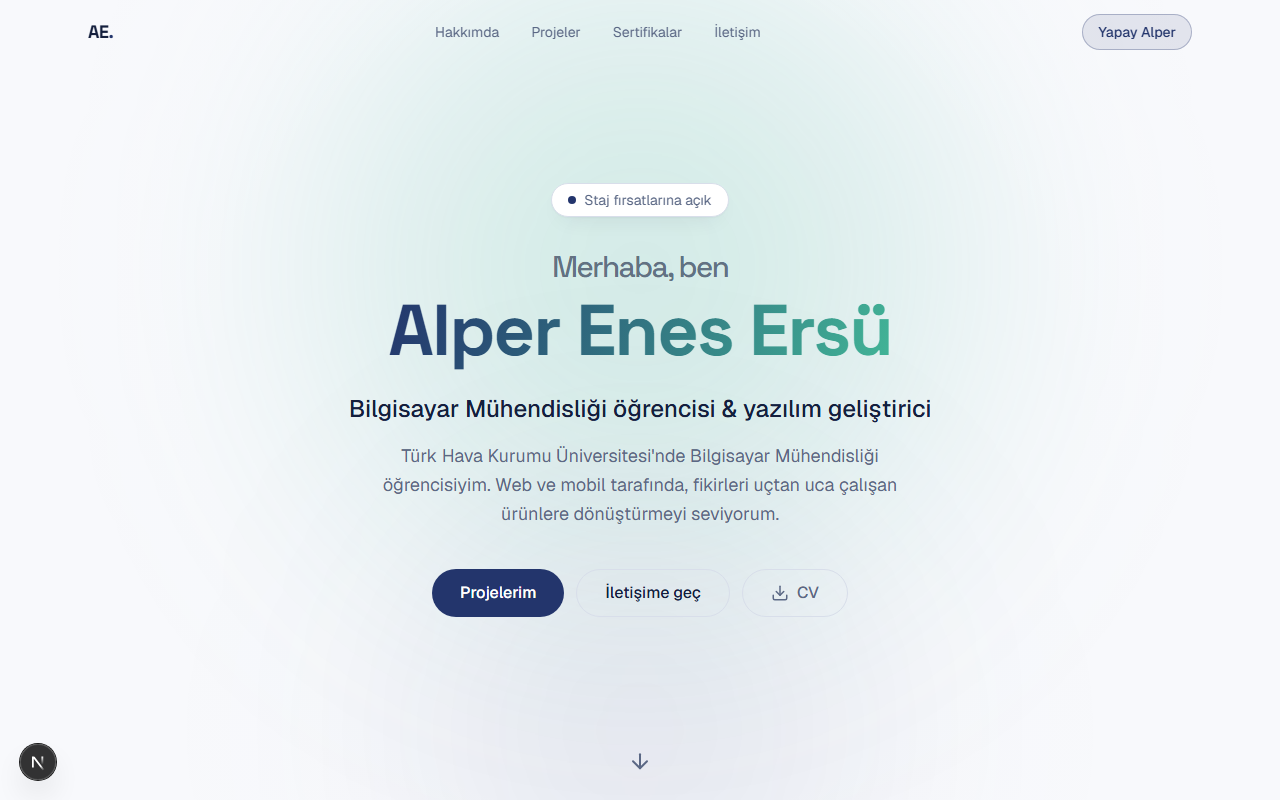
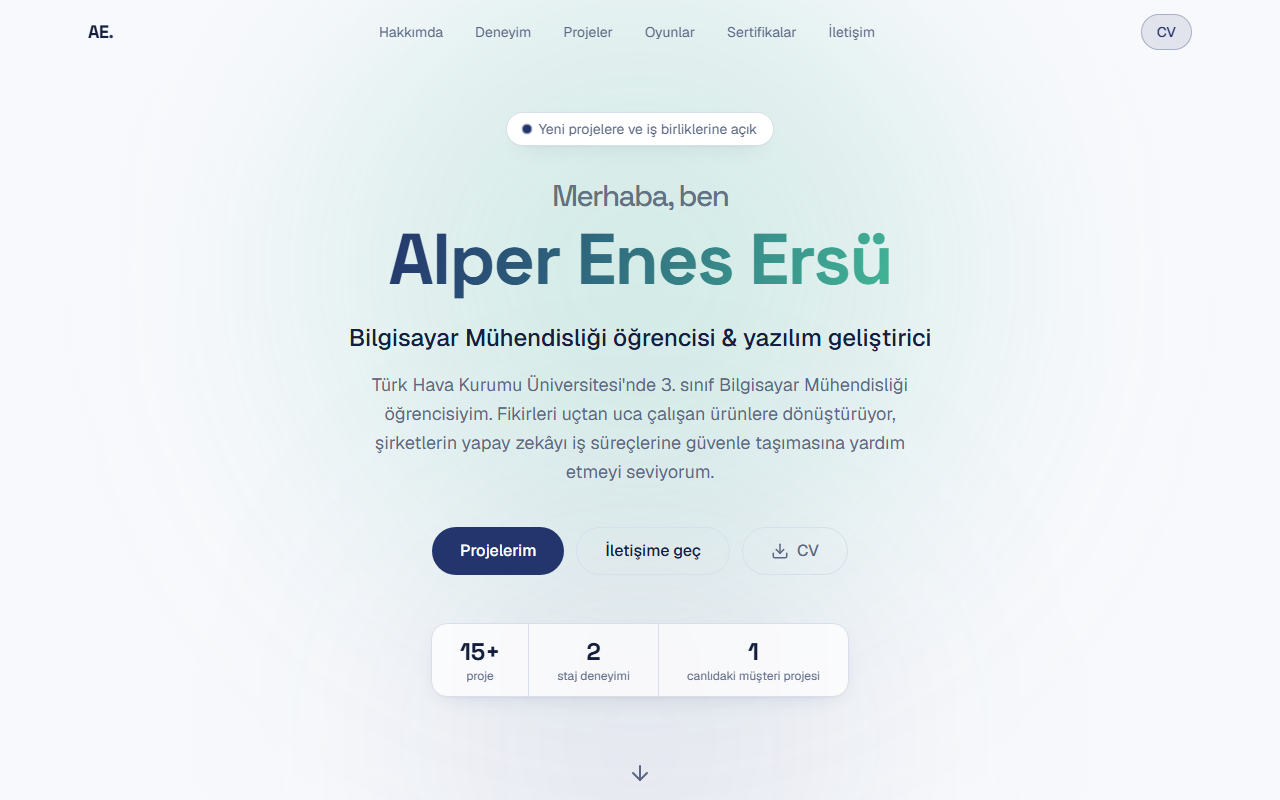
feat(projeler): Undustit eklendi, sıra emeğe göre, görseller güncellendi
- Undustit (undustit.com, canlı) öne çıkan projelere eklendi.
- Sıra: önce canlıdakiler, sonra PR sayısı çoktan aza; PR'ı olmayanlar commit
  sayısına göre. Öne çıkanlar: canlıda olan ya da 30+ PR'lı projeler
  (SezAI öne çıktı).
- site.png yeni menüyle (Oyunlar dahil) yeniden çekildi.

diff --git a/src/content/projects.ts b/src/content/projects.ts
@@ -44,7 +44,32 @@ export type Project = {
 /** Bu sitede barınan oyunun adresi (public/oyunlar/, Fuse-Fall deposundaki `npm run portfolio` ile gelir). */
 export const FUSE_AND_FALL_URL = "/oyunlar/fuse-and-fall/index.html";
 
+/**
+ * Sıra: önce canlıdakiler, sonra PR sayısı çoktan aza (PR'ı olmayanlar commit sayısına göre).
+ * Daha çok emek verilen proje üstte. Öne çıkan (büyük kart): canlıda olan ya da 30+ PR'lı projeler.
+ * Sayılar Kasım 2026: Undustit 40, Fuse & Fall 39, GMS Toptan 16 · Flow 311, ScrapeMind 149,
+ * SezAI 84, Aetheria 40, GitShield 33, bu site 23, SezAI Mobile 9, NeKiBuKi 4, Sweeply 3,
+ * Posinowa 1, AISigner 1 PR · Hastane 39, LogSentry 35, KitapYurdu 10, Aloah 5 commit.
+ */
 export const projects: Project[] = [
+  {
+    slug: "undustit",
+    title: "Undustit",
+    tagline: "Fikirden rafa: topluluğun birlikte ürün geliştirdiği atölye",
+    description: [
+      "Aklındaki ürünü tek cümleyle yazıyorsun; insanlar “alırdım” deyip kaça alacaklarını yazıyor. En çok istenen beş fikir her perşembe canlı yayında konuşuluyor, ön satış eşiği dolunca ürün üretiliyor ve satıştan katkı veren herkes pay alıyor. Firmalar da satamadıkları stoğu “vaka” olarak açıyor; topluluk o stoğa yeni bir iş buluyor. İlk vaka: bir milyon M10 cıvata.",
+      "Derleme adımı olmayan, iki dilli (TR/EN) statik bir site; veri Supabase'de, her tabloda satır düzeyinde güvenlik (RLS) var. Fikir arenası, vaka sayfaları, kendi vakasını izleyen firma paneli ve içerik denetimli yönetim paneli içeriyor. Paylaşılan her fikir Netlify Edge Function ile kendi önizlemesini alıyor; Playwright, SQL ve Edge testleri her PR'da CI'da koşuyor.",
+    ],
+    tech: ["HTML/CSS/JS", "Supabase", "PostgreSQL + RLS", "Netlify Edge Functions", "Playwright"],
+    image: "/projects/undustit.png",
+    repo: "AlperEnesErsu/Undustit",
+    github: "https://github.com/AlperEnesErsu/Undustit",
+    demo: "https://undustit.com",
+    status: "live",
+    featured: true,
+    platforms: ["Web"],
+    categories: ["Web"],
+  },
   {
     slug: "fuse-and-fall",
     title: "Fuse & Fall",
@@ -80,40 +105,6 @@ export const projects: Project[] = [
     categories: ["Web"],
   },
   {
-    slug: "gitshield",
-    title: "GitShield",
-    tagline: "AI destekli PR güvenlik denetçisi ve otomatik düzeltme motoru",
-    description: [
-      "Klasik statik analiz araçları geliştiricinin önüne yüzlerce uyarı yığar, çoğu da kapatılıp geçilir. GitShield yalnızca PR'daki değişen satırları tarar: regex + Shannon entropisiyle sızdırılmış anahtarları, OWASP kurallarıyla SQL injection, eval ve komut enjeksiyonu gibi açıkları yakalar ve LLM ile uygulanabilir bir düzeltme diff'i üretir.",
-      "Terminalde, GitHub Action olarak ya da web panelinde çalışıyor. Panel, erişimin olan tüm repolardaki PR'ları AI ile inceliyor, review'u ikinci bir LLM geçişiyle doğruluyor ve yalnızca senin onayınla PR'a gönderiyor. Bekleyenler kutusu, açıklamalı risk skoru, klavyeyle hızlı onay modu ve SARIF çıktısı var.",
-    ],
-    tech: ["Python", "Typer", "Pydantic", "FastAPI", "React", "LLM", "GitHub API", "SARIF"],
-    image: "/projects/gitshield.png",
-    repo: "AlperEnesErsu/GitShield",
-    github: "https://github.com/AlperEnesErsu/GitShield",
-    status: "open-source",
-    featured: true,
-    platforms: ["CLI", "Web"],
-    categories: ["Yapay Zekâ", "Güvenlik"],
-  },
-  {
-    slug: "aetheria-ai",
-    title: "Aetheria.ai",
-    tagline: "Proje fikri üreten ve fikrini ölçerek değerlendiren AI aracı",
-    description: [
-      "Seçtiğin alanda sıfırdan yazılım proje fikri üretiyor; beğendiğin fikrin Clean Architecture sistem mimarisini ve güvenlik tasarımını çıkarıp Markdown rapor olarak veriyor. İlk sürüm hep aynı beş fikrin etrafında dönüyordu; üretimi iki aşamaya bölüp her isteğe farklı bir kısıt kombinasyonu (625 bileşim) vererek 24 üretimde 24 farklı başlık elde ettim.",
-      "Yeni “Fikrimi Değerlendir” modu, senin fikrini değiştirmeden dört kriterle inceliyor. Kanıt ve uygulanabilirlik OpenAlex, Wikidata ve GitHub'a giden gerçek sorgularla ölçülüyor; pazar ve zamanlama ise açıkça “model görüşü” olarak etiketleniyor — yanıltıcı bir birleşik puan yok. Sunucu yok, anahtarın tarayıcından çıkmıyor; 289 test bu kuralları zorluyor.",
-    ],
-    tech: ["JavaScript", "Gemini API", "Claude API", "OpenAlex", "Wikidata", "node:test"],
-    image: "/projects/aetheria.png",
-    repo: "AlperEnesErsu/Aetheria.ai",
-    github: "https://github.com/AlperEnesErsu/Aetheria.ai",
-    status: "open-source",
-    featured: true,
-    platforms: ["Web"],
-    categories: ["Yapay Zekâ", "Web"],
-  },
-  {
     slug: "flow",
     title: "Flow",
     tagline: "Hedef, alışkanlık ve odak takibini birleştiren verimlilik uygulaması",
@@ -146,6 +137,102 @@ export const projects: Project[] = [
     categories: ["Yapay Zekâ", "Web"],
   },
   {
+    slug: "sezai",
+    title: "SezAI",
+    tagline: "Yapay zekâ destekli bitki hastalığı teşhisi",
+    description: [
+      "Çiftçinin tarlada uzmana erişimi yok; hastalığı geç fark etmek mahsulü götürüyor. SezAI bu problemi tek fotoğrafa indiriyor: yaprağın fotoğrafını çek, ~10 saniyede teşhisi al.",
+      "Teşhisle birlikte doğru ilacı öneriyor ve en yakın bayiyi gösteriyor. Son sürümde kullanılmayan bileşen kütüphanesini ve 43 yetim bağımlılığı temizledim, animasyonlar için regresyon testleri ekledim.",
+    ],
+    tech: ["React", "TypeScript", "Tailwind v4", "Supabase", "React Query"],
+    image: "/projects/sezai.png",
+    status: "demo-soon",
+    featured: true,
+    platforms: ["Web", "Mobil"],
+    categories: ["Yapay Zekâ", "Web"],
+  },
+  {
+    slug: "aetheria-ai",
+    title: "Aetheria.ai",
+    tagline: "Proje fikri üreten ve fikrini ölçerek değerlendiren AI aracı",
+    description: [
+      "Seçtiğin alanda sıfırdan yazılım proje fikri üretiyor; beğendiğin fikrin Clean Architecture sistem mimarisini ve güvenlik tasarımını çıkarıp Markdown rapor olarak veriyor. İlk sürüm hep aynı beş fikrin etrafında dönüyordu; üretimi iki aşamaya bölüp her isteğe farklı bir kısıt kombinasyonu (625 bileşim) vererek 24 üretimde 24 farklı başlık elde ettim.",
+      "Yeni “Fikrimi Değerlendir” modu, senin fikrini değiştirmeden dört kriterle inceliyor. Kanıt ve uygulanabilirlik OpenAlex, Wikidata ve GitHub'a giden gerçek sorgularla ölçülüyor; pazar ve zamanlama ise açıkça “model görüşü” olarak etiketleniyor — yanıltıcı bir birleşik puan yok. Sunucu yok, anahtarın tarayıcından çıkmıyor; 289 test bu kuralları zorluyor.",
+    ],
+    tech: ["JavaScript", "Gemini API", "Claude API", "OpenAlex", "Wikidata", "node:test"],
+    image: "/projects/aetheria.png",
+    repo: "AlperEnesErsu/Aetheria.ai",
+    github: "https://github.com/AlperEnesErsu/Aetheria.ai",
+    status: "open-source",
+    featured: true,
+    platforms: ["Web"],
+    categories: ["Yapay Zekâ", "Web"],
+  },
+  {
+    slug: "gitshield",
+    title: "GitShield",
+    tagline: "AI destekli PR güvenlik denetçisi ve otomatik düzeltme motoru",
+    description: [
+      "Klasik statik analiz araçları geliştiricinin önüne yüzlerce uyarı yığar, çoğu da kapatılıp geçilir. GitShield yalnızca PR'daki değişen satırları tarar: regex + Shannon entropisiyle sızdırılmış anahtarları, OWASP kurallarıyla SQL injection, eval ve komut enjeksiyonu gibi açıkları yakalar ve LLM ile uygulanabilir bir düzeltme diff'i üretir.",
+      "Terminalde, GitHub Action olarak ya da web panelinde çalışıyor. Panel, erişimin olan tüm repolardaki PR'ları AI ile inceliyor, review'u ikinci bir LLM geçişiyle doğruluyor ve yalnızca senin onayınla PR'a gönderiyor. Bekleyenler kutusu, açıklamalı risk skoru, klavyeyle hızlı onay modu ve SARIF çıktısı var.",
+    ],
+    tech: ["Python", "Typer", "Pydantic", "FastAPI", "React", "LLM", "GitHub API", "SARIF"],
+    image: "/projects/gitshield.png",
+    repo: "AlperEnesErsu/GitShield",
+    github: "https://github.com/AlperEnesErsu/GitShield",
+    status: "open-source",
+    featured: true,
+    platforms: ["CLI", "Web"],
+    categories: ["Yapay Zekâ", "Güvenlik"],
+  },
+  {
+    slug: "alperenesersu-net",
+    title: "AlperEnesErsu.net",
+    tagline: "Bu site — animasyonlu kişisel portföy",
+    description: [
+      "Şu an gezdiğin site. Her bölümü ayrı PR'larla geliştirdim: interaktif proje simülatörleri, canlı GitHub istatistikleri, sertifika galerisi ve sıkı güvenlik başlıkları (CSP, HSTS).",
+    ],
+    tech: ["Next.js 16", "TypeScript", "Tailwind v4", "Motion"],
+    image: "/projects/site.png",
+    repo: "AlperEnesErsu/AlperEnesErsu.net",
+    github: "https://github.com/AlperEnesErsu/AlperEnesErsu.net",
+    status: "open-source",
+    featured: false,
+    platforms: ["Web"],
+    categories: ["Web"],
+  },
+  {
+    slug: "sezai-mobile",
+    title: "SezAI Mobile",
+    tagline: "SezAI'nin React Native mobil uygulaması",
+    description: [
+      "SezAI'yi tarlada en çok kullanılacağı yere, telefona taşıyorum: fotoğraf çek, teşhisi ve ilaç önerisini cebinden al. Expo ile geliştiriliyor; yeni özellikler eklendikçe burası da güncellenecek.",
+    ],
+    tech: ["React Native", "Expo", "TypeScript"],
+    image: "/projects/sezai-mobile.png",
+    status: "in-dev",
+    featured: false,
+    platforms: ["Mobil"],
+    categories: ["Mobil", "Yapay Zekâ"],
+  },
+  {
+    slug: "nekibuki",
+    title: "NeKiBuKi",
+    tagline: "Zor bulunan ürünler için masaüstü fiyat & stok takibi",
+    description: [
+      "Piyasada zor bulunan ürünleri CarrefourSA, Akakçe ve Trendyol gibi sitelerde periyodik tarayan bir masaüstü uygulaması. Hedef fiyatın altına düşen ya da stoğa geri gelen ürünler için bildirim gönderiyor; Tkinter arayüzüyle ürün yönetimi ve fiyat geçmişi grafiği sunuyor.",
+      "Birçok sitenin bot koruması 403 döndürünce hibrit bir yapı kurdum: erişilebilen kaynaklardan doğrudan veri çekiliyor, erişilemeyenlerde kullanıcı doğru arama sayfasına yönlendiriliyor.",
+    ],
+    tech: ["Python", "Tkinter", "Web Scraping", "Veri Analizi"],
+    image: "/projects/nekibuki.png",
+    repo: "AlperEnesErsu/NeKiBuKi",
+    github: "https://github.com/AlperEnesErsu/NeKiBuKi",
+    status: "open-source",
+    featured: false,
+    platforms: ["Masaüstü"],
+    categories: ["Masaüstü"],
+  },
+  {
     slug: "sweeply",
     title: "Sweeply",
     tagline: "Tek tıkla, güvenli ve şeffaf Windows temizliği",
@@ -161,23 +248,6 @@ export const projects: Project[] = [
     featured: false,
     platforms: ["Windows"],
     categories: ["Masaüstü"],
-  },
-  {
-    slug: "logsentry",
-    title: "LogSentry",
-    tagline: "Ruby ile sıfırdan yazılmış mini SIEM",
-    description: [
-      "Splunk veya Wazuh gibi sistemlerin kaputunun altındaki mantığı elle kurarak öğrenmek için yazdım. Web sunucusu loglarını canlı izliyor; brute force, credential stuffing, flood, dizin taraması, SQLi, XSS ve tarama araçlarını kayan zaman pencereleriyle tespit edip kanıtıyla uyarı üretiyor.",
-      "Uyarılar ekrana, JSONL'e ve Telegram'a gidiyor; arşiv hash zinciriyle kurcalamaya karşı korunuyor. SSE destekli web paneli, MITRE ATT&CK eşlemesi, Syslog/CEF yönlendirme ve 236 test var.",
-    ],
-    tech: ["Ruby", "Sinatra", "SQLite", "SSE", "MITRE ATT&CK"],
-    image: "/projects/logsentry.png",
-    repo: "AlperEnesErsu/LogSentry",
-    github: "https://github.com/AlperEnesErsu/LogSentry",
-    status: "open-source",
-    featured: false,
-    platforms: ["Sunucu", "Web"],
-    categories: ["Güvenlik"],
   },
   {
     slug: "posinowa-redesign",
@@ -212,48 +282,35 @@ export const projects: Project[] = [
     categories: ["Web"],
   },
   {
-    slug: "sezai",
-    title: "SezAI",
-    tagline: "Yapay zekâ destekli bitki hastalığı teşhisi",
+    slug: "hospital-system",
+    title: "Hospital Management System",
+    tagline: "Hasta kayıt, randevu ve idari süreç yönetimi (üniversite projesi)",
     description: [
-      "Çiftçinin tarlada uzmana erişimi yok; hastalığı geç fark etmek mahsulü götürüyor. SezAI bu problemi tek fotoğrafa indiriyor: yaprağın fotoğrafını çek, ~10 saniyede teşhisi al.",
-      "Teşhisle birlikte doğru ilacı öneriyor ve en yakın bayiyi gösteriyor. Son sürümde kullanılmayan bileşen kütüphanesini ve 43 yetim bağımlılığı temizledim, animasyonlar için regresyon testleri ekledim.",
+      "Hasta bakımı, tıbbi kayıtlar, randevular ve idari iş akışlarını ele alan kapsamlı bir hastane yönetim sistemi tasarımı ve uygulaması. Nesne yönelimli programlama ilkeleri ve veritabanı tasarımı iyi uygulamalarıyla, üniversite dersi kapsamında geliştirdim.",
     ],
-    tech: ["React", "TypeScript", "Tailwind v4", "Supabase", "React Query"],
-    image: "/projects/sezai.png",
-    status: "demo-soon",
+    tech: ["Java", "OOP", "HTML", "UI Tasarımı"],
+    image: "/projects/hospital-system.png",
+    github: "https://github.com/AlperEnesErsu/Ceng201_HW_Assignment",
+    status: "open-source",
     featured: false,
-    platforms: ["Web", "Mobil"],
-    categories: ["Yapay Zekâ", "Web"],
+    categories: ["Masaüstü"],
   },
   {
-    slug: "sezai-mobile",
-    title: "SezAI Mobile",
-    tagline: "SezAI'nin React Native mobil uygulaması",
+    slug: "logsentry",
+    title: "LogSentry",
+    tagline: "Ruby ile sıfırdan yazılmış mini SIEM",
     description: [
-      "SezAI'yi tarlada en çok kullanılacağı yere, telefona taşıyorum: fotoğraf çek, teşhisi ve ilaç önerisini cebinden al. Expo ile geliştiriliyor; yeni özellikler eklendikçe burası da güncellenecek.",
+      "Splunk veya Wazuh gibi sistemlerin kaputunun altındaki mantığı elle kurarak öğrenmek için yazdım. Web sunucusu loglarını canlı izliyor; brute force, credential stuffing, flood, dizin taraması, SQLi, XSS ve tarama araçlarını kayan zaman pencereleriyle tespit edip kanıtıyla uyarı üretiyor.",
+      "Uyarılar ekrana, JSONL'e ve Telegram'a gidiyor; arşiv hash zinciriyle kurcalamaya karşı korunuyor. SSE destekli web paneli, MITRE ATT&CK eşlemesi, Syslog/CEF yönlendirme ve 236 test var.",
     ],
-    tech: ["React Native", "Expo", "TypeScript"],
-    image: "/projects/sezai-mobile.png",
-    status: "in-dev",
+    tech: ["Ruby", "Sinatra", "SQLite", "SSE", "MITRE ATT&CK"],
+    image: "/projects/logsentry.png",
+    repo: "AlperEnesErsu/LogSentry",
+    github: "https://github.com/AlperEnesErsu/LogSentry",
+    status: "open-source",
     featured: false,
-    platforms: ["Mobil"],
-    categories: ["Mobil", "Yapay Zekâ"],
-  },
-  {
-    slug: "aloah",
-    title: "Aloah",
-    tagline: "Toplulukları ve yerel esnafı buluşturan mobil uygulama",
-    description: [
-      "Yerel işletmeleri ve toplulukları; etkileşim ve karşılıklı destek için bir araya getiren bir mobil uygulama. Flutter ile iOS ve Android için arayüzü geliştirdim, gerçek zamanlı veri yönetimi için Firebase backend'ini entegre ettim.",
-      "Takımla iteratif geliştirme döngülerinde çalıştım.",
-    ],
-    tech: ["Flutter", "Dart", "Firebase"],
-    image: "/projects/aloah.png",
-    status: "in-dev",
-    featured: false,
-    platforms: ["Mobil"],
-    categories: ["Mobil"],
+    platforms: ["Sunucu", "Web"],
+    categories: ["Güvenlik"],
   },
   {
     slug: "kitapyurdu-redesign",
@@ -273,50 +330,18 @@ export const projects: Project[] = [
     categories: ["Web"],
   },
   {
-    slug: "nekibuki",
-    title: "NeKiBuKi",
-    tagline: "Zor bulunan ürünler için masaüstü fiyat & stok takibi",
+    slug: "aloah",
+    title: "Aloah",
+    tagline: "Toplulukları ve yerel esnafı buluşturan mobil uygulama",
     description: [
-      "Piyasada zor bulunan ürünleri CarrefourSA, Akakçe ve Trendyol gibi sitelerde periyodik tarayan bir masaüstü uygulaması. Hedef fiyatın altına düşen ya da stoğa geri gelen ürünler için bildirim gönderiyor; Tkinter arayüzüyle ürün yönetimi ve fiyat geçmişi grafiği sunuyor.",
-      "Birçok sitenin bot koruması 403 döndürünce hibrit bir yapı kurdum: erişilebilen kaynaklardan doğrudan veri çekiliyor, erişilemeyenlerde kullanıcı doğru arama sayfasına yönlendiriliyor.",
+      "Yerel işletmeleri ve toplulukları; etkileşim ve karşılıklı destek için bir araya getiren bir mobil uygulama. Flutter ile iOS ve Android için arayüzü geliştirdim, gerçek zamanlı veri yönetimi için Firebase backend'ini entegre ettim.",
+      "Takımla iteratif geliştirme döngülerinde çalıştım.",
     ],
-    tech: ["Python", "Tkinter", "Web Scraping", "Veri Analizi"],
-    image: "/projects/nekibuki.png",
-    repo: "AlperEnesErsu/NeKiBuKi",
-    github: "https://github.com/AlperEnesErsu/NeKiBuKi",
-    status: "open-source",
+    tech: ["Flutter", "Dart", "Firebase"],
+    image: "/projects/aloah.png",
+    status: "in-dev",
     featured: false,
-    platforms: ["Masaüstü"],
-    categories: ["Masaüstü"],
-  },
-  {
-    slug: "hospital-system",
-    title: "Hospital Management System",
-    tagline: "Hasta kayıt, randevu ve idari süreç yönetimi (üniversite projesi)",
-    description: [
-      "Hasta bakımı, tıbbi kayıtlar, randevular ve idari iş akışlarını ele alan kapsamlı bir hastane yönetim sistemi tasarımı ve uygulaması. Nesne yönelimli programlama ilkeleri ve veritabanı tasarımı iyi uygulamalarıyla, üniversite dersi kapsamında geliştirdim.",
-    ],
-    tech: ["Java", "OOP", "HTML", "UI Tasarımı"],
-    image: "/projects/hospital-system.png",
-    github: "https://github.com/AlperEnesErsu/Ceng201_HW_Assignment",
-    status: "open-source",
-    featured: false,
-    categories: ["Masaüstü"],
-  },
-  {
-    slug: "alperenesersu-net",
-    title: "AlperEnesErsu.net",
-    tagline: "Bu site — animasyonlu kişisel portföy",
-    description: [
-      "Şu an gezdiğin site. Her bölümü ayrı PR'larla geliştirdim: interaktif proje simülatörleri, canlı GitHub istatistikleri, sertifika galerisi ve sıkı güvenlik başlıkları (CSP, HSTS).",
-    ],
-    tech: ["Next.js 16", "TypeScript", "Tailwind v4", "Motion"],
-    image: "/projects/site.png",
-    repo: "AlperEnesErsu/AlperEnesErsu.net",
-    github: "https://github.com/AlperEnesErsu/AlperEnesErsu.net",
-    status: "open-source",
-    featured: false,
-    platforms: ["Web"],
-    categories: ["Web"],
+    platforms: ["Mobil"],
+    categories: ["Mobil"],
   },
 ];
